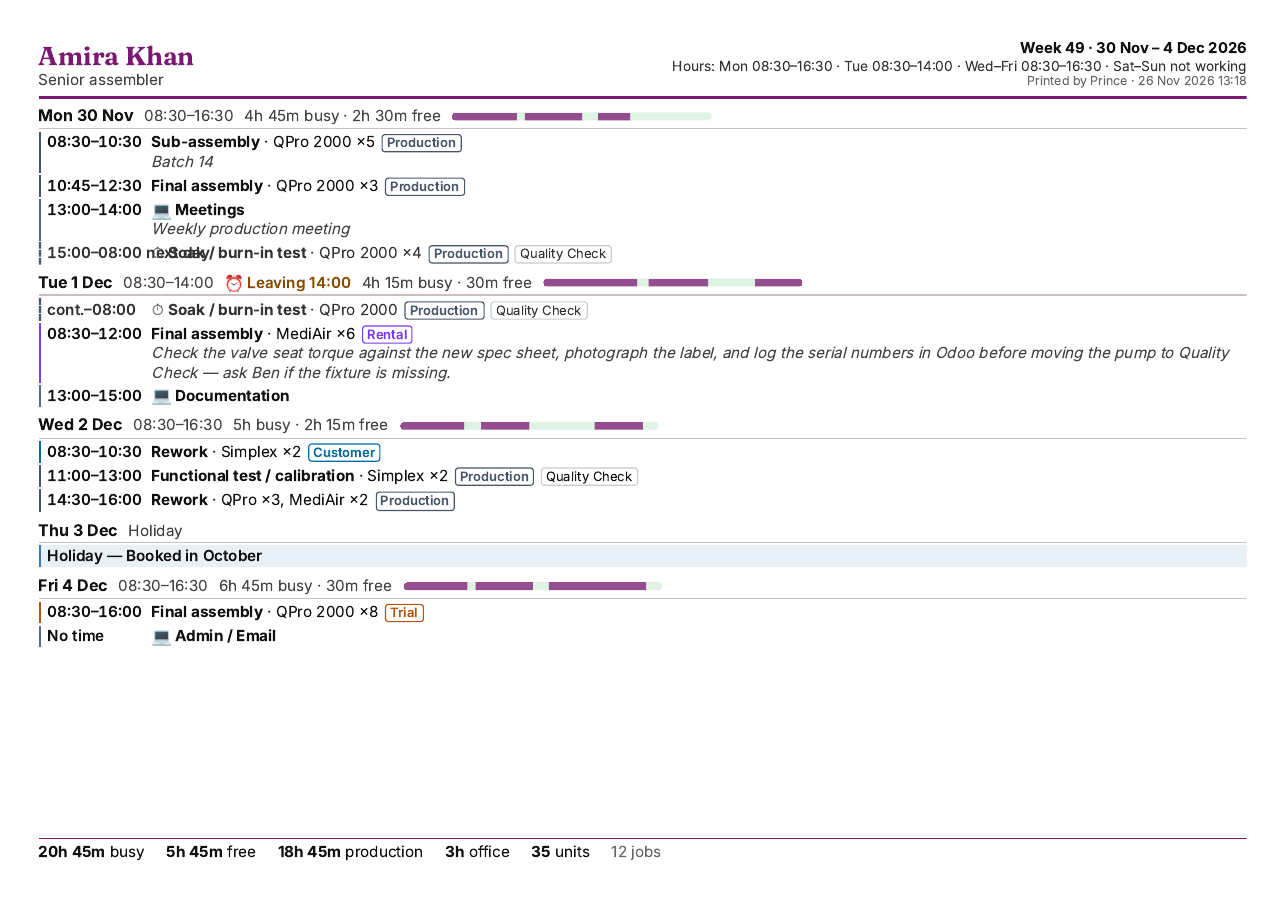
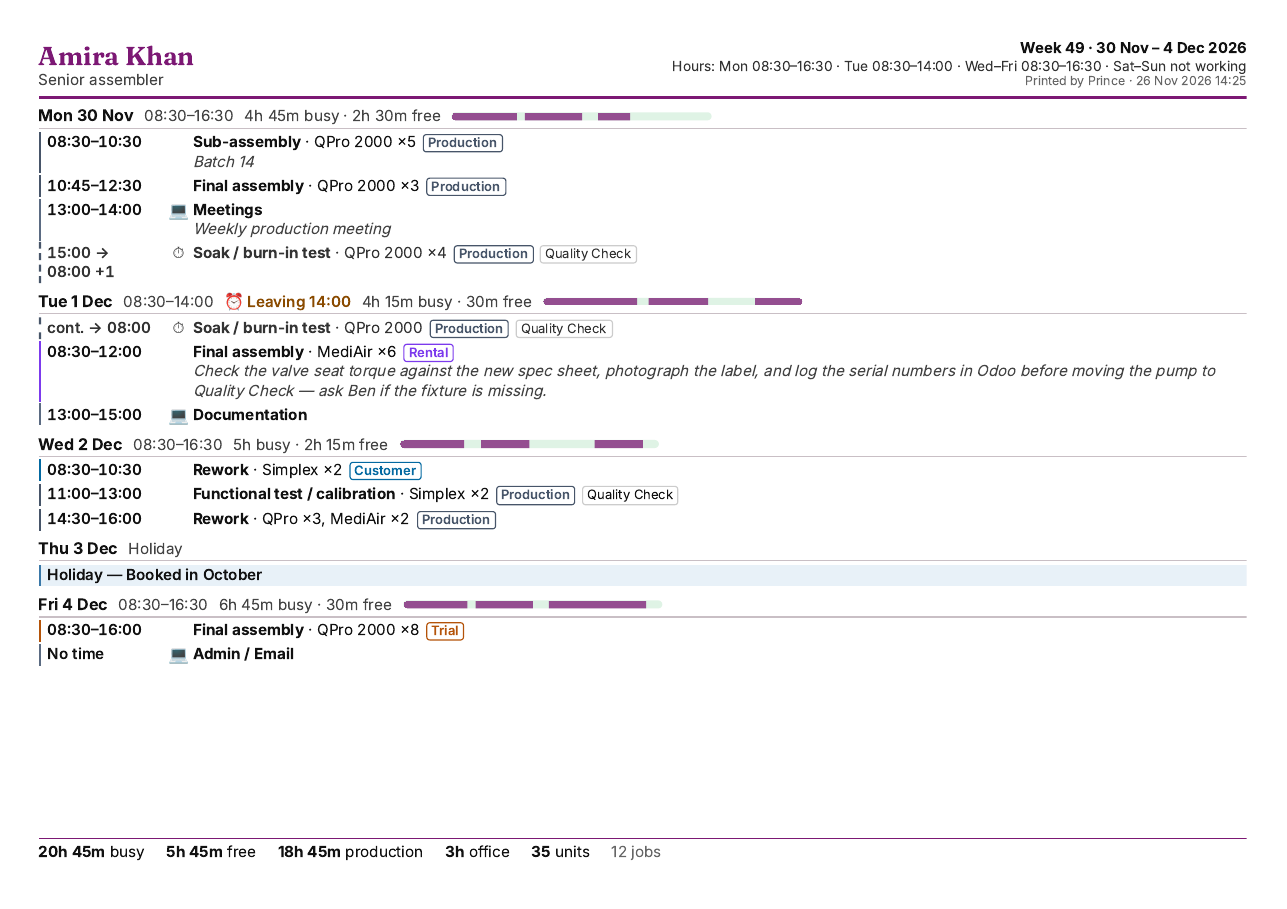
Print: overnight / multi-day times never overlap the task text
- Short time labels: '13:30 → 11:00 +1', '13:30 → Wed 11:00', 'cont. → 11:00'
  (src/printFormat.js, unit-tested), built from unbreakable pieces that wrap.
- Job row grid: time column sized to its content (at least 7.6em), ⏱ / 💻 in
  their own column, then the task — at every shrink step, 1 or 2 columns.
- tests/e2e/print-times.cjs: overnight, multi-day and continued background
  jobs; fails if a time's text overlaps the icon / task text at any step, or
  if any two words overlap in the PDF (pdftotext -bbox). Fails on the old code.
- print-people test: checks now measured in print media (they were measuring
  hidden pages before); labels updated.

Claude-Session: https://claude.ai/code/session_01XNSAvtXNy8aPh6HHrb7pc3

Changed region(s): [[0.0311, 0.1232, 0.9635, 0.7393], [0.8081, 0.0616, 0.9635, 0.0924]]

diff --git a/src/pages/printPeople.js b/src/pages/printPeople.js
@@ -21,8 +21,7 @@ export const FIT_STEPS = [
 ];
 
 // ------------------------------------------------------------------ content
-/** "09:00–11:00", "15:00–08:00 next day", "cont.–08:00" (a job running over midnight). */
-const timeText = (pl) => `${pl.s < 0 ? 'cont.' : fmtMin(pl.s)}–${pl.e > 24 * 60 ? `${fmtMin(pl.e - 24 * 60)} next day` : fmtMin(pl.e)}`;
+import { timePieces } from '../printFormat.js';
 const PAD = (n) => String(n).padStart(2, '0');
 const stamp = () => { const d = new Date(); return `${fmtDate(d)} ${PAD(d.getHours())}:${PAD(d.getMinutes())}`; };
 
@@ -83,10 +82,10 @@ function personContent(ctx, person, days, single) {
       tot.jobs += 1;
       const pump = office ? null : ctx.pump(a);
       blocks.push({ kind: 'job', iso, el: () => h('div', { class: `pp-job${bg ? ' pp-bg' : ''}${office ? ' pp-office' : ''}`, style: type ? `--type-color:${type.color}` : false },
-        h('span', { class: 'pp-time' }, pl ? timeText(pl) : 'No time'),
+        // time | ⏱ / 💻 | what — three columns, so nothing can sit on top of anything else
+        h('span', { class: 'pp-time' }, (pl ? timePieces(pl, iso) : ['No time']).flatMap((t, i) => (i ? [' ', h('span', { class: 'pp-tp' }, t)] : [h('span', { class: 'pp-tp' }, t)]))),
+        h('span', { class: 'pp-icon', title: bg ? 'Background' : office ? 'Office' : null }, bg ? '⏱' : office ? '💻' : ''),
         h('span', { class: 'pp-what' },
-          bg ? h('span', { class: 'pp-mark', title: 'Background' }, '⏱ ') : null,
-          office ? h('span', { class: 'pp-mark', title: 'Office' }, '💻 ') : null,
           h('b', {}, task?.name || '?'),
           pump ? ` · ${pump}` : '',
           !office && a.qty_target != null && first && !a.any_pump ? ` ×${a.qty_target}` : '',

diff --git a/src/styles.css b/src/styles.css
@@ -1229,8 +1229,10 @@ input[readonly] { background: var(--card-2, #f4f1ee); color: var(--ink-2); }
 .pp-oneoff { color: #8a4b00; font-weight: 600; }
 .pp-bar { position: relative; flex: 1 1 30mm; min-width: 20mm; max-width: 60mm; height: 1.8mm; background: #dff3e5; border-radius: 1mm; overflow: hidden; align-self: center; }
 .pp-bar span { position: absolute; top: 0; bottom: 0; background: #7C1874; opacity: .75; }
-.pp-job { display: grid; grid-template-columns: 6.4em minmax(0, 1fr); gap: 0 1.5mm; border-left: 2.5px solid var(--type-color, #8a8a8a); padding: .3mm 0 .3mm 1.5mm; margin: .5mm 0; break-inside: avoid; }
-.pp-time { font-variant-numeric: tabular-nums; font-weight: 600; white-space: nowrap; }
+.pp-job { display: grid; grid-template-columns: minmax(7.6em, min-content) 1.35em minmax(0, 1fr); gap: 0 1mm; border-left: 2.5px solid var(--type-color, #8a8a8a); padding: .3mm 0 .3mm 1.5mm; margin: .5mm 0; break-inside: avoid; }
+.pp-time { font-variant-numeric: tabular-nums; font-weight: 600; min-width: 0; }   /* wraps between pieces: "13:30 →" / "11:00 +1" */
+.pp-tp { white-space: nowrap; }
+.pp-icon { text-align: center; line-height: inherit; }
 .pp-what { min-width: 0; overflow-wrap: anywhere; }
 .pp-type, .pp-station, .pp-part, .pp-done { display: inline-block; margin-left: 1.5mm; padding: 0 1mm; border-radius: .8mm; font-size: .85em; border: 1px solid #ccc; }
 .pp-type { color: var(--type-color, #333); border-color: var(--type-color, #ccc); font-weight: 600; }

diff --git a/src/printFormat.js b/src/printFormat.js
@@ -1,0 +1,22 @@
+// Text for printed pages (pure: no DOM) — see tests/unit/printFormat.test.mjs.
+import { fmtMin } from './daytime.js';
+import { fromISO, addDays, fmtDayShort } from './dates.js';
+
+/**
+ * Short time label, as unbreakable pieces (it may wrap between them, never inside one):
+ *   same day            ["09:00–11:00"]
+ *   ends the next day   ["13:30 →", "11:00 +1"]
+ *   ends later          ["13:30 →", "Wed 11:00"]
+ *   continued from before ["cont. →", "11:00"]  (or "11:00 +1" / "Wed 11:00" when it runs on)
+ * `pl` is { s, e } in minutes from midnight of `iso` (negative / past 24:00 for other days).
+ */
+export function timePieces(pl, iso) {
+  const day = 24 * 60;
+  const over = pl.e > day ? Math.floor((pl.e - 1) / day) : 0;     // whole days after `iso` it ends on
+  const endMin = pl.e - over * day;
+  const end = over === 0 ? (pl.e >= day ? '24:00' : fmtMin(pl.e))
+    : over === 1 ? `${fmtMin(endMin)} +1`
+      : `${fmtDayShort(addDays(fromISO(iso), over)).split(' ')[0]} ${fmtMin(endMin)}`;
+  if (pl.s < 0) return ['cont. →', end];
+  return over === 0 ? [`${fmtMin(pl.s)}–${end}`] : [`${fmtMin(pl.s)} →`, end];
+}

diff --git a/README.md b/README.md
@@ -247,7 +247,7 @@ Pumps are tested several at a time, so the planner adds up the pumps on test tha
   `npm run test:parts` checks jobs over several days (auto split, edit any part, move, drag, adjust, delete, copy),
   `npm run test:corrections` checks corrections to completed units, `npm run test:mixed` checks mixed pumps on one
   job, `npm run test:print` prints real PDFs (one page per person; 40+ jobs; a 15-job day; a week too big for one
-  page), and `npm run test:unit` runs the unit tests
+  page), `npm run test:print-times` checks printed times never overlap the task text, and `npm run test:unit` runs the unit tests
   for the re-flow logic and corrections (`tests/unit/`, plain Node — no browser needed)
   (all need Playwright:
   `npm i -D playwright && npx playwright install chromium`).
@@ -541,7 +541,8 @@ stage a line underneath shows planned / done **per stage** for the demand due ("
 
 Each person's page has a header (name, role, their working hours / pattern, the week or date, printed by and
 when), then each day: the jobs in time order with start–end, task, pump(s) and quantity, build type, station,
-⏱ background and 💻 office markers and notes; absences and one-off hour changes; a small busy / free line per day;
+⏱ background and 💻 office markers (in their own column) and notes; times in a short form — "13:30 → 11:00 +1", "13:30 → Wed 11:00" for
+later days, "cont. → 11:00" on a day it continues — which wrap onto a second line rather than run into the task; absences and one-off hour changes; a small busy / free line per day;
 and a totals line (busy, free, production vs office hours, units).
 
 **Everything fits on that person's single page.** The page is laid out at its printed size before printing and,
